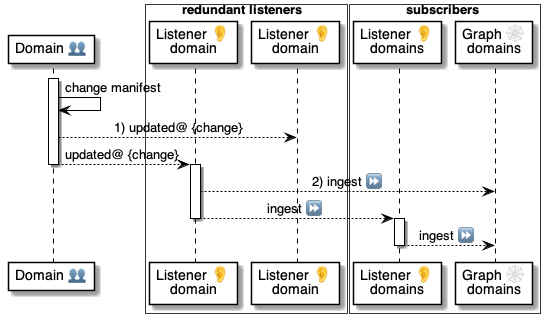
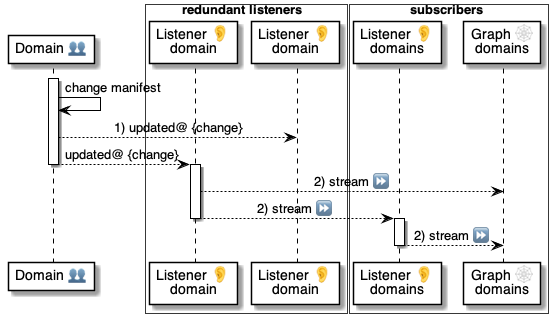
.

diff --git a/5 ⏩ Flows/78  🌬⏩ Streamers/01 🌬⏩🔔 Stream.md b/5 ⏩ Flows/78  🌬⏩ Streamers/01 🌬⏩🔔 Stream.md
@@ -1,8 +1,10 @@
 # 🌬⏩🔔 Stream @ Streamer
 
+> Used by [Manifest @ Domain 👥⏩🕸](<../30 👥⏩ Domains/04 👥⏩🕸 Manifest.md>)
 
 > **Privacy**: When [Streamer 🌬 domains](<../../4 ⚙ Solution/40 👥 Domains/41 📨 Comms/02 🌬🎭 Streamer role.md>) send messages to a [Buffer ⏳ domains](<../../4 ⚙ Solution/40 👥 Domains/41 📨 Comms/03 ⏳🛠 Buffer helper.md>), the [Streamer 🌬 domains](<../../4 ⚙ Solution/40 👥 Domains/41 📨 Comms/02 🌬🎭 Streamer role.md>) encrypt the messages with the public key of the [Subscriber 🔔 domain](<../../4 ⚙ Solution/40 👥 Domains/41 📨 Comms/04 🔔🎭 Subscriber role.md>),  ensuring that only the [Subscriber 🔔 domain](<../../4 ⚙ Solution/40 👥 Domains/41 📨 Comms/04 🔔🎭 Subscriber role.md>) can decrypt them with the private key.
 
+<br/>
 
 ## Flow diagram
 
@@ -11,9 +13,9 @@
 
 | # | Call | Notes
 |-|-|-
-| 0 | [🔔🐌🌬 Subscribe](<../../6 🅰 APIs/86 🌬🅰 Streamer/01 🔔🐌🌬 Subscribe.md>) | 
-| 1 | [🌬🐌⏳ Push @ Buffer](<../../6 🅰 APIs/20 ⏳🅰 Buffer/02 🌬🐌⏳ Push.md>) | The [Streamer 🌬](<../../4 ⚙ Solution/40 👥 Domains/41 📨 Comms/02 🌬🎭 Streamer role.md>) pushes to the [Buffer ⏳ domain](<../../4 ⚙ Solution/40 👥 Domains/41 📨 Comms/03 ⏳🛠 Buffer helper.md>).
-| 2 | [⏳🐌🔔 Wake-up @ Subscriber](<../../6 🅰 APIs/87 🔔🅰 Subscriber/04 ⏳🐌🔔 Wake-up.md>) | The [Buffer ⏳](<../../4 ⚙ Solution/40 👥 Domains/41 📨 Comms/03 ⏳🛠 Buffer helper.md>) wakes up the [Subscriber 🔔 domain](<../../4 ⚙ Solution/40 👥 Domains/41 📨 Comms/04 🔔🎭 Subscriber role.md>).
+| 0 | [🔔🐌🌬 Subscribe @ Streamer](<../../6 🅰 APIs/86 🌬🅰 Streamer/01 🔔🐌🌬 Subscribe.md>) | The [Subscriber 🔔](<../../4 ⚙ Solution/40 👥 Domains/41 📨 Comms/04 🔔🎭 Subscriber role.md>) subscribes to a stream.
+| 1 | [🌬🐌⏳ Push @ Buffer](<../../6 🅰 APIs/20 ⏳🅰 Buffer/02 🌬🐌⏳ Push.md>) | The [Streamer 🌬](<../../4 ⚙ Solution/40 👥 Domains/41 📨 Comms/02 🌬🎭 Streamer role.md>) pushes to the [Buffer ⏳](<../../4 ⚙ Solution/40 👥 Domains/41 📨 Comms/03 ⏳🛠 Buffer helper.md>).
+| 2 | [⏳🐌🔔 Wake-up @ Subscriber](<../../6 🅰 APIs/87 🔔🅰 Subscriber/04 ⏳🐌🔔 Wake-up.md>) | The [Buffer ⏳](<../../4 ⚙ Solution/40 👥 Domains/41 📨 Comms/03 ⏳🛠 Buffer helper.md>) wakes up the [Subscriber 🔔](<../../4 ⚙ Solution/40 👥 Domains/41 📨 Comms/04 🔔🎭 Subscriber role.md>).
 | 3 | [🔔🚀⏳ Poll @ Buffer](<../../6 🅰 APIs/20 ⏳🅰 Buffer/04 🔔🚀⏳ Poll.md>) | The [Subscriber 🔔](<../../4 ⚙ Solution/40 👥 Domains/41 📨 Comms/04 🔔🎭 Subscriber role.md>) polls all buffered messages.
 |4| [🔔🚀⏳ Confirm @ Buffer](<../../6 🅰 APIs/20 ⏳🅰 Buffer/05 🔔🚀⏳ Confirm.md>) | The [Subscriber 🔔](<../../4 ⚙ Solution/40 👥 Domains/41 📨 Comms/04 🔔🎭 Subscriber role.md>) confirms the processed ones.
 ||

diff --git a/6 🅰 APIs/20 ⏳🅰 Buffer/04 🔔🚀⏳ Poll.md b/6 🅰 APIs/20 ⏳🅰 Buffer/04 🔔🚀⏳ Poll.md
@@ -1,6 +1,6 @@
 # 🔔🚀⏳ Poll @ Buffer
 
-> Implements [Buffer ⏳ helper domain](<../../4 ⚙ Solution/40 👥 Domains/41 📨 Comms/03 ⏳🛠 Buffer helper.md>)
+> Implements a [Buffer ⏳ helper domain](<../../4 ⚙ Solution/40 👥 Domains/41 📨 Comms/03 ⏳🛠 Buffer helper.md>)
 
 > Used in [Stream @ Streamer 🌬⏩🔔](<../../5 ⏩ Flows/78  🌬⏩ Streamers/01 🌬⏩🔔 Stream.md>)
 
@@ -27,8 +27,17 @@ Header:
 
 ## Synchronous Response
 
+```yaml
+PollID: <poll-uuid>
+Messages: 
+    - MessageID: <message-uuid>
+    - Message: <encrypted-message>
+```
+
 |Object|Property|Type|Description
 |-|-|-|-
-| Top | `PollID` | UUID | ID for [Confirm@Buffer 🚀](<05 🔔🚀⏳ Confirm.md>)
-||`Messages` | list | List of Message objects
-| Message | `Message` | string 
+| Top | `PollID` | UUID | Poll ID for [Confirm@Buffer 🚀](<05 🔔🚀⏳ Confirm.md>).
+||`Messages` | list | List of Message objects.
+| Message | `MessageID` | UUID | Message ID for [Confirm@Buffer 🚀](<05 🔔🚀⏳ Confirm.md>).
+|| `Message` | string | [Message 📨](<../../4 ⚙ Solution/40 👥 Domains/41 📨 Comms/01 📨 Domain Message.md>) encrypted with the [DKIM 📺](<../../2 🏔 Landscape/2 🧑🦰 User landscape/08 🔐 Passwordless ID landscape/07 📺 Email DKIM.md>) of the [Subscriber 🔔 domain](<../../4 ⚙ Solution/40 👥 Domains/41 📨 Comms/04 🔔🎭 Subscriber role.md>) and encoded in Base64.
+|

diff --git a/6 🅰 APIs/20 ⏳🅰 Buffer/05 🔔🚀⏳ Confirm.md b/6 🅰 APIs/20 ⏳🅰 Buffer/05 🔔🚀⏳ Confirm.md
@@ -1,6 +1,41 @@
 # 🔔🚀⏳ Confirm @ Buffer
 
-> Implements [Buffer ⏳ helper domain](<../../4 ⚙ Solution/40 👥 Domains/41 📨 Comms/03 ⏳🛠 Buffer helper.md>)
+> Implements a [Buffer ⏳ helper domain](<../../4 ⚙ Solution/40 👥 Domains/41 📨 Comms/03 ⏳🛠 Buffer helper.md>)
 
 > Used in [Stream @ Streamer 🌬⏩🔔](<../../5 ⏩ Flows/78  🌬⏩ Streamers/01 🌬⏩🔔 Stream.md>)
 
+> Referenced by [Poll @ Buffer 🔔🚀](<04 🔔🚀⏳ Poll.md>)
+
+
+<br/>
+
+## Synchronous Request 🚀
+
+```yaml
+Header:
+    From: any-subscriber.com
+    To: any-buffer.com
+    Subject: Confirm@Buffer
+Body:
+    Poll: <poll-uuid>
+    Messages: 
+        - <message-uuid>
+```
+
+
+|Object|Property|Type|Description
+|-|-|-|-
+|Header|`From` | string | [Subscriber 🔔 domain](<../../4 ⚙ Solution/40 👥 Domains/41 📨 Comms/04 🔔🎭 Subscriber role.md>) name
+||`To`| string | [Buffer ⏳ helper domain](<../../4 ⚙ Solution/40 👥 Domains/41 📨 Comms/03 ⏳🛠 Buffer helper.md>) name
+||`Subject`| string | `Confirm@Buffer`
+|Body | `Poll` | UUID | Confirmed PollID (optional)
+|| `Messages`| string[] | Confirmed MessageIDs (optional)
+|
+
+<br/>
+
+## Synchronous Response
+
+```yaml
+# empty
+```

diff --git a/5 ⏩ Flows/30 👥⏩ Domains/04 👥⏩🕸 Manifest.md b/5 ⏩ Flows/30 👥⏩ Domains/04 👥⏩🕸 Manifest.md
@@ -1,6 +1,8 @@
-# 👥⏩🕸 Manifest @ [Domain](<../../4 ⚙ Solution/40 👥 Domains/44 📜 Manifests/00 👥 Domain.md>)
+# 👥⏩🕸 Manifest @ Domain
 
+> Implements [domain Manifest 📜](<../../4 ⚙ Solution/40 👥 Domains/44 📜 Manifests/01 📜 Domain Manifest.md>)
 
+<br/>
 
 ## Flow diagram ⏩
 
@@ -10,5 +12,5 @@
 | # | Call | Notes
 |-|-|-
 | 1 | [👥🐌👂 Updated @ Listener](<../../6 🅰 APIs/60 👂🅰 Listener/01 👥🐌👂 Updated.md>) | The [domain 👥](<../../4 ⚙ Solution/40 👥 Domains/44 📜 Manifests/00 👥 Domain.md>) notifies the [Manifest 📜](<../../4 ⚙ Solution/40 👥 Domains/44 📜 Manifests/01 📜 Domain Manifest.md>) changes
-| 2 | [🌬⏩💼 Ingest @ Consumer](<../78  🌬⏩ Streamers/01 🌬⏩🔔 Stream.md>) | The [Listeners 👂](<../../4 ⚙ Solution/40 👥 Domains/44 📜 Manifests/02 👂🛠 Listener helper.md>) fan-out to their subscribers
+| 2 | [🌬⏩🔔 Stream @ Streamer](<../78  🌬⏩ Streamers/01 🌬⏩🔔 Stream.md>) | The [Listeners 👂](<../../4 ⚙ Solution/40 👥 Domains/44 📜 Manifests/02 👂🛠 Listener helper.md>) fan-out to their subscribers
 ||

diff --git a/6 🅰 APIs/20 ⏳🅰 Buffer/03 👥🐌⏳ Feedback.md b/6 🅰 APIs/20 ⏳🅰 Buffer/03 👥🐌⏳ Feedback.md
@@ -2,7 +2,7 @@
 
 > The feedback is sent via a [Buffer ⏳ helper domain](<../../4 ⚙ Solution/40 👥 Domains/41 📨 Comms/03 ⏳🛠 Buffer helper.md>) defined by the sender's domain. 
 
-> Implements [Buffer ⏳ helper domain](<../../4 ⚙ Solution/40 👥 Domains/41 📨 Comms/03 ⏳🛠 Buffer helper.md>)
+> Implements a [Buffer ⏳ helper domain](<../../4 ⚙ Solution/40 👥 Domains/41 📨 Comms/03 ⏳🛠 Buffer helper.md>)
 
 > Mentioned in [domain Message 📨](<../../4 ⚙ Solution/40 👥 Domains/41 📨 Comms/01 📨 Domain Message.md>)
 

diff --git a/6 🅰 APIs/87 🔔🅰 Subscriber/04 ⏳🐌🔔 Wake-up.md b/6 🅰 APIs/87 🔔🅰 Subscriber/04 ⏳🐌🔔 Wake-up.md
@@ -1,6 +1,6 @@
 # ⏳🐌🔔 Wake-up @ Subscriber
 
-> Implements [Subscriber 🔔 domain](<../../4 ⚙ Solution/40 👥 Domains/41 📨 Comms/04 🔔🎭 Subscriber role.md>)
+> Implements the [Subscriber 🔔 domain role](<../../4 ⚙ Solution/40 👥 Domains/41 📨 Comms/04 🔔🎭 Subscriber role.md>)
 
 > Used in [Stream @ Streamer 🌬⏩🔔](<../../5 ⏩ Flows/78  🌬⏩ Streamers/01 🌬⏩🔔 Stream.md>)
 

diff --git a/6 🅰 APIs/20 ⏳🅰 Buffer/02 🌬🐌⏳ Push.md b/6 🅰 APIs/20 ⏳🅰 Buffer/02 🌬🐌⏳ Push.md
@@ -1,6 +1,6 @@
 # 🌬🐌⏳ Push @ Buffer
 
-> Implements [Buffer ⏳ helper domain](<../../4 ⚙ Solution/40 👥 Domains/41 📨 Comms/03 ⏳🛠 Buffer helper.md>)
+> Implements a [Buffer ⏳ helper domain](<../../4 ⚙ Solution/40 👥 Domains/41 📨 Comms/03 ⏳🛠 Buffer helper.md>)
 
 > Used in [Stream @ Streamer 🌬⏩🔔](<../../5 ⏩ Flows/78  🌬⏩ Streamers/01 🌬⏩🔔 Stream.md>)
 

diff --git a/6 🅰 APIs/86 🌬🅰 Streamer/01 🔔🐌🌬 Subscribe.md b/6 🅰 APIs/86 🌬🅰 Streamer/01 🔔🐌🌬 Subscribe.md
@@ -1,5 +1,11 @@
 # 🔔🐌🌬 Subscribe @ Streamer
 
+> Implements the [Streamer 🌬 domain role](<../../4 ⚙ Solution/40 👥 Domains/41 📨 Comms/02 🌬🎭 Streamer role.md>)
+
+> Used in [Stream @ Streamer 🌬⏩🔔](<../../5 ⏩ Flows/78  🌬⏩ Streamers/01 🌬⏩🔔 Stream.md>)
+
+<br/>
+
 ## Async Message 🐌
 
 
